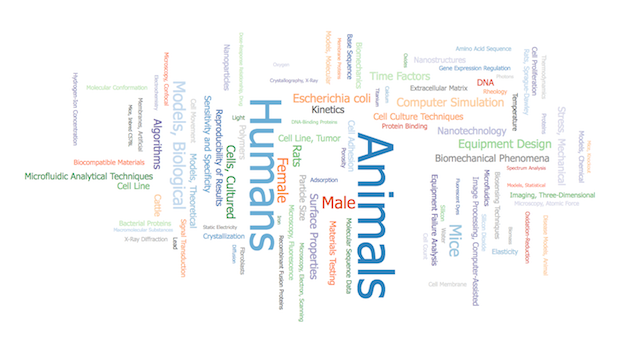
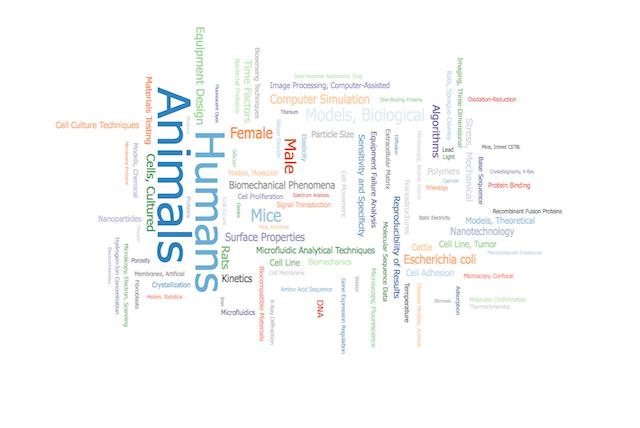
added pic

Changed region(s): [[0.0312, 0.0583, 0.9375, 0.9329], [0.8438, 0.3207, 0.9062, 0.379]]

diff --git a/index.html b/index.html
@@ -12,7 +12,7 @@
 			<img src="map.png"/>
 		</div>
 		<div class="imgContainer">
-			<img class="middle-img" src="/images/tv.gif"/>
+			<img class="middle-img" src="wordCloud.png">
 		</div>
 		<div class="imgContainer">
 			<img src="/images/tv.gif"/>
